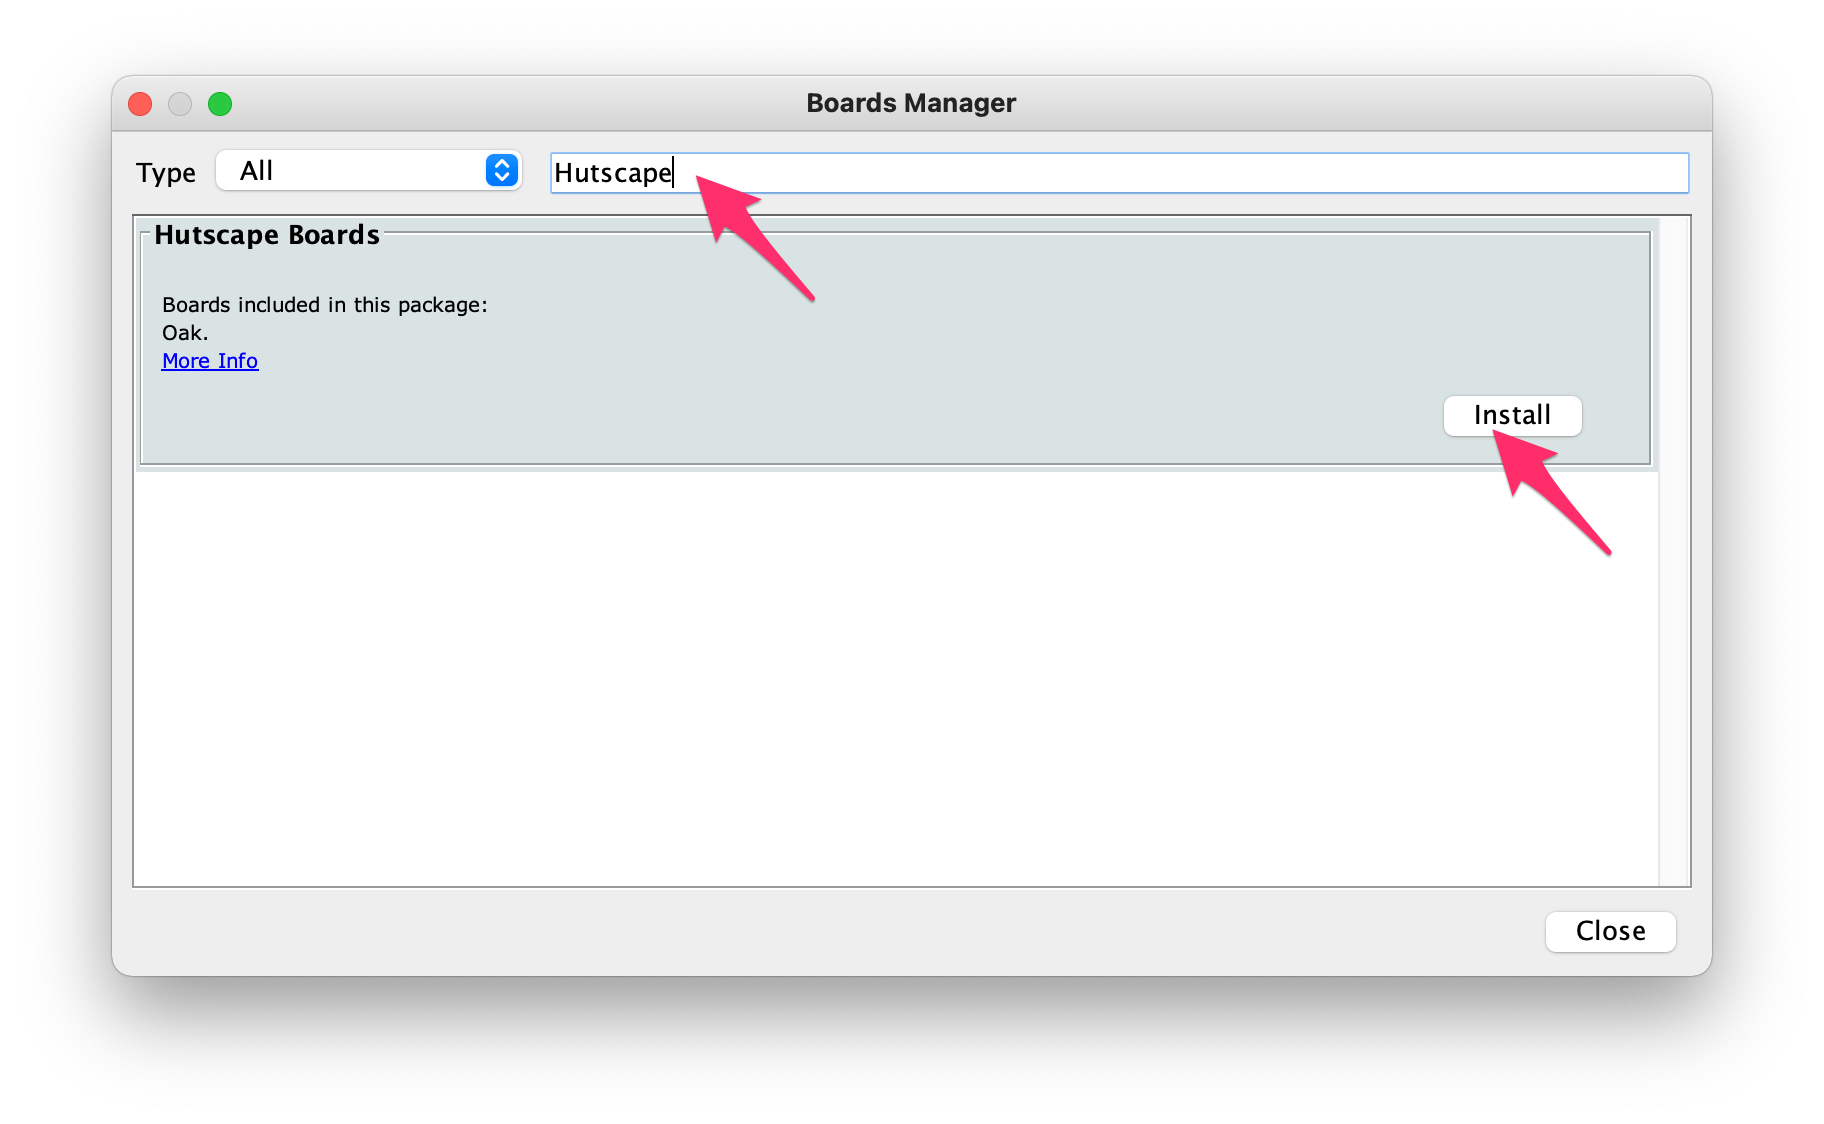
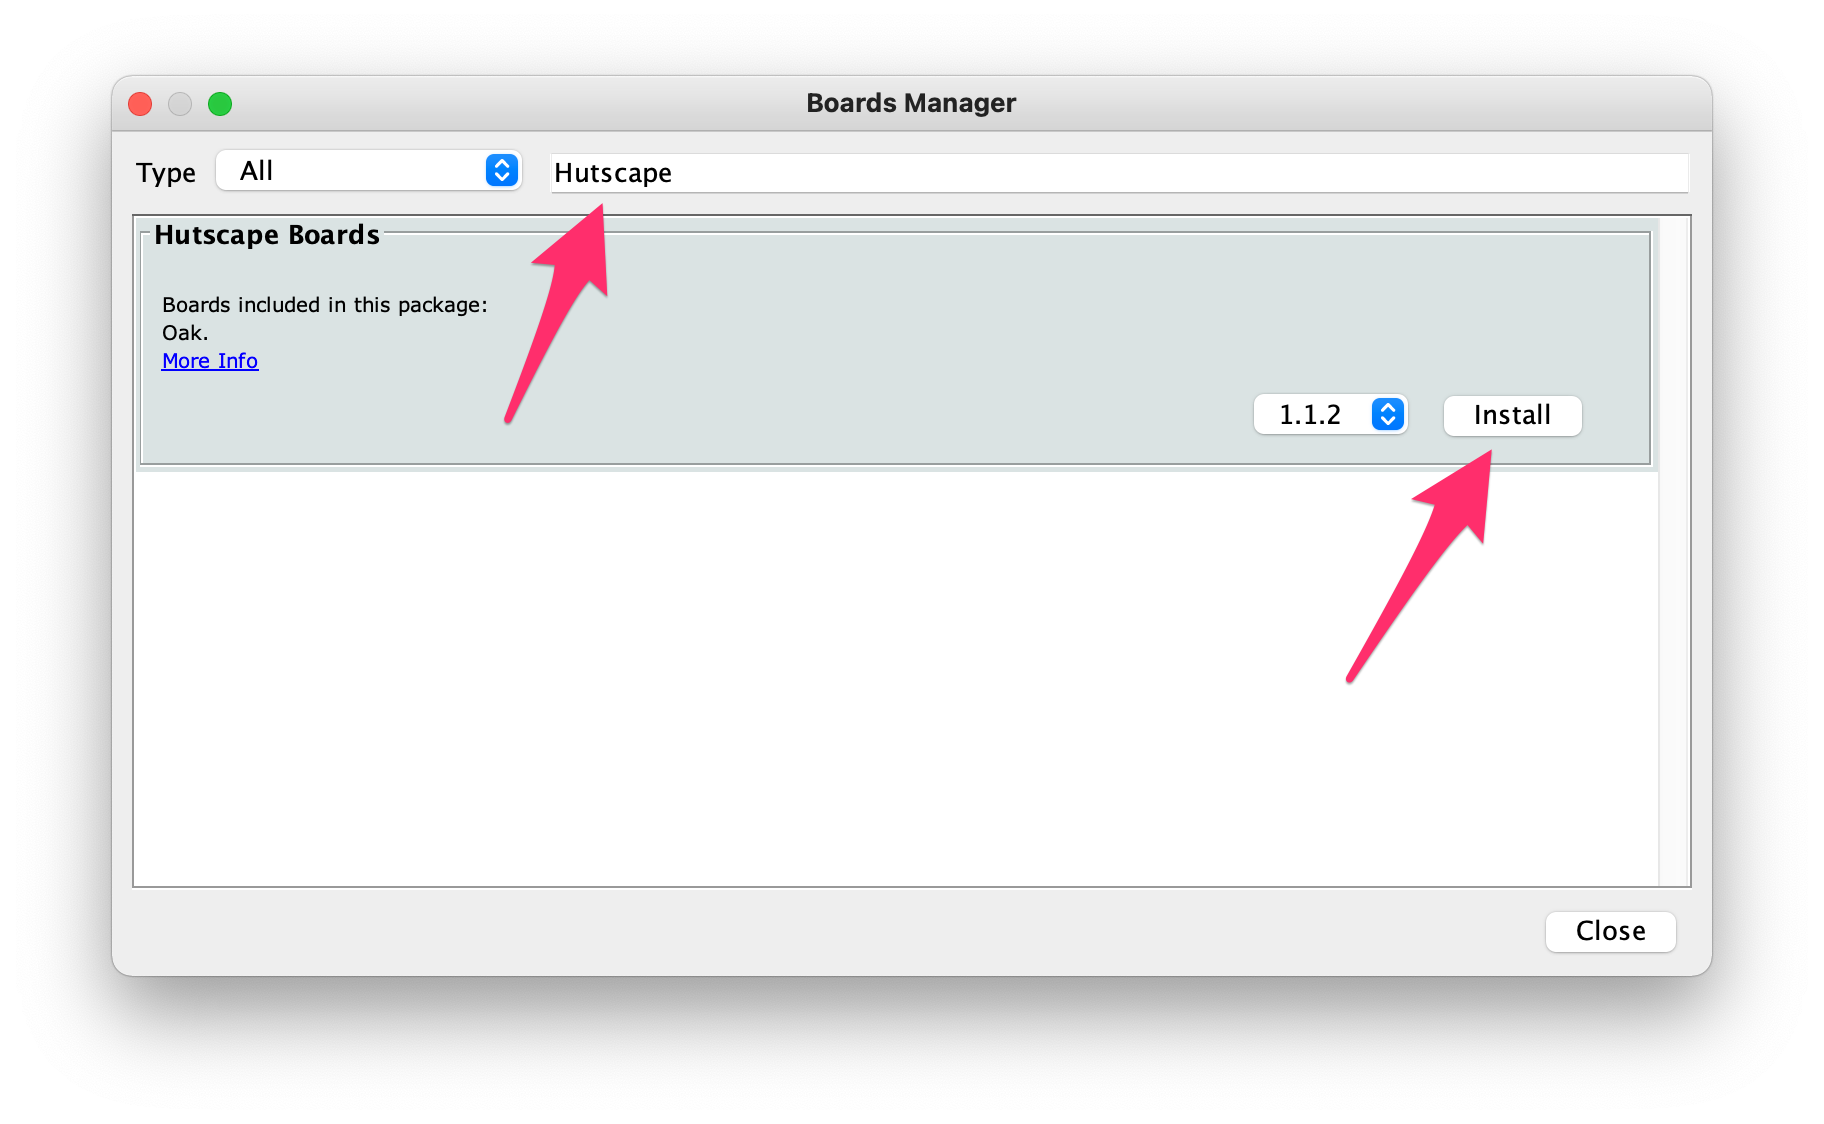
docs: add more images for custom Arduino board installation

diff --git a/_examples/custom-arduino.md b/_examples/custom-arduino.md
@@ -133,3 +133,6 @@ Refer to the 2 repositories created:
 1. Restart Arduino IDE
 1. Go to Tools > Boards Manager > Search for Hutscape or Oak
     <img src="{{ site.url }}/images/examples/install-custom-board.png" alt="Install custom Arduino board">
+    <img src="{{ site.url }}/images/examples/custom-board-installed.png" alt="Custom Arduino board is installed">
+1. Choose the custom board installed for compiling and uploading
+    <img src="{{ site.url }}/images/examples/choose-custom-board.png" alt="Choose the custom Arduino Board installed">
